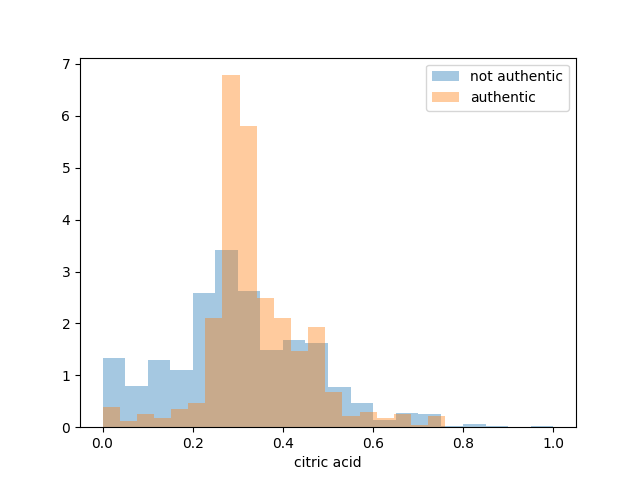
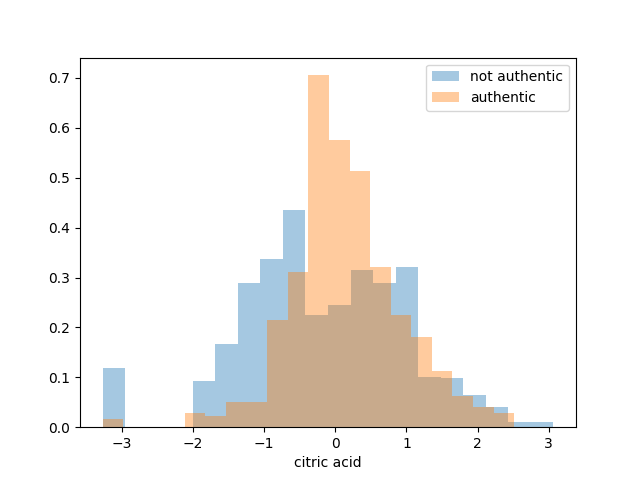
da cambiare gli scores

diff --git a/classifiers.py b/classifiers.py
@@ -1,7 +1,7 @@
 import numpy
 import probability as prob
 
-def MVG_classifier(DTR, LTR, DTE, LTE):
+def MVG_classifier(DTR, LTR, DTE, LTE, classes_prior_probabilties):
     log =True
     
     # 1) Compute the ML estimetes for the classifier parameters (mu, co : for each class) mu=mean, co=covariance matrix
@@ -12,8 +12,6 @@ def MVG_classifier(DTR, LTR, DTE, LTE):
         # 2) Compute the likelihood of each sample for each class and store it in a matrix #Row=classes x #columns=data_sample
         scores = prob.compute_likelihoods (DTE, m, c, 2)
         # 3) Compute class posterior probability= multiply the score matrix with prior probability
-        P_c= 1/2
-        classes_prior_probabilties = numpy.array([P_c, P_c, P_c]) #assuming for each class P(c)=1/3 
         S_joint = prob.compute_joint_distribution(scores, classes_prior_probabilties) 
         # 4) compute class posterior probability
         S_post = prob.compute_class_posterior_probabilities(S_joint) 
@@ -23,8 +21,6 @@ def MVG_classifier(DTR, LTR, DTE, LTE):
         # 2) Compute the loglikelihood of each sample for each class and store it in a matrix #Row=classes x #columns=data_sample
         scores = prob.compute_loglikelihoods (DTE, m, c, 2)
         # 3) Compute class posterior probability= multiply the score matrix with prior probability
-        P_c= 1/2
-        classes_prior_probabilties = numpy.array([P_c, P_c, P_c]) #assuming for each class P(c)=1/3 
         S_joint = prob.compute_joint_log_distribution(scores, classes_prior_probabilties) 
         # 4) compute class posterior probability
         S_log_post = prob.compute_log_class_posterior_probabilities(S_joint) 
@@ -40,7 +36,7 @@ def MVG_classifier(DTR, LTR, DTE, LTE):
 
 
 
-def TiedCovariance_classifier(DTR, LTR, DTE, LTE):
+def TiedCovariance_classifier(DTR, LTR, DTE, LTE, classes_prior_probabilties):
     log =True
      # 1) Compute the ML estimetes for the classifier parameters (mu, co : for each class) mu=mean, co=covariance matrix
     m = prob.means(DTR, LTR)
@@ -63,8 +59,6 @@ def TiedCovariance_classifier(DTR, LTR, DTE, LTE):
         # 2) Compute the likelihood of each sample for each class and store it in a matrix #Row=classes x #columns=data_sample
         scores = prob.compute_likelihoods (DTE, m, c, 2)
         # 3) Compute class posterior probability= multiply the score matrix with prior probability
-        P_c= 1/2
-        classes_prior_probabilties = numpy.array([P_c, P_c, P_c]) #assuming for each class P(c)=1/3 
         S_joint = prob.compute_joint_distribution(scores, classes_prior_probabilties) 
         # 4) compute class posterior probability
         S_post = prob.compute_class_posterior_probabilities(S_joint) 
@@ -74,8 +68,6 @@ def TiedCovariance_classifier(DTR, LTR, DTE, LTE):
         # 2) Compute the loglikelihood of each sample for each class and store it in a matrix #Row=classes x #columns=data_sample
         scores = prob.compute_loglikelihoods (DTE, m, c, 2)
         # 3) Compute class posterior probability= multiply the score matrix with prior probability
-        P_c= 1/2
-        classes_prior_probabilties = numpy.array([P_c, P_c, P_c]) #assuming for each class P(c)=1/3 
         S_joint = prob.compute_joint_log_distribution(scores, classes_prior_probabilties) 
         # 4) compute class posterior probability
         S_log_post = prob.compute_log_class_posterior_probabilities(S_joint) 
@@ -92,7 +84,7 @@ def TiedCovariance_classifier(DTR, LTR, DTE, LTE):
 
 
 
-def NaiveBayes_classifier(DTR, LTR, DTE, LTE):
+def NaiveBayes_classifier(DTR, LTR, DTE, LTE, classes_prior_probabilties):
     log =True
      # 1) Compute the ML estimetes for the classifier parameters (mu, co : for each class) mu=mean, co=covariance matrix
     m = prob.means(DTR, LTR)
@@ -108,8 +100,7 @@ def NaiveBayes_classifier(DTR, LTR, DTE, LTE):
         # 2) Compute the likelihood of each sample for each class and store it in a matrix #Row=classes x #columns=data_sample
         scores = prob.compute_likelihoods (DTE, m, c, 2)
         # 3) Compute class posterior probability= multiply the score matrix with prior probability
-        P_c= 1/2
-        classes_prior_probabilties = numpy.array([P_c, P_c, P_c]) #assuming for each class P(c)=1/3 
+       
         S_joint = prob.compute_joint_distribution(scores, classes_prior_probabilties) 
         # 4) compute class posterior probability
         S_post = prob.compute_class_posterior_probabilities(S_joint) 
@@ -119,8 +110,7 @@ def NaiveBayes_classifier(DTR, LTR, DTE, LTE):
         # 2) Compute the loglikelihood of each sample for each class and store it in a matrix #Row=classes x #columns=data_sample
         scores = prob.compute_loglikelihoods (DTE, m, c, 2)
         # 3) Compute class posterior probability= multiply the score matrix with prior probability
-        P_c= 1/2
-        classes_prior_probabilties = numpy.array([P_c, P_c, P_c]) #assuming for each class P(c)=1/3 
+       
         S_joint = prob.compute_joint_log_distribution(scores, classes_prior_probabilties) 
         # 4) compute class posterior probability
         S_log_post = prob.compute_log_class_posterior_probabilities(S_joint) 

diff --git a/probability.py b/probability.py
@@ -137,3 +137,62 @@ def compute_accuracy_error(predicted_labels, LTE):
     error = (tot_predictions - num_corrected_predictions ) /tot_predictions
 
     return (accuracy, error)
+
+
+
+
+def compute_confusion_matrix(predicted_labels, actual_labels, numClasses):
+    #Build confusion matrix 
+    c_matrix_C =numpy.zeros((numClasses,numClasses))
+    #columns =classes, #rows= predictions
+
+    # classLabels: evaluation labels -> actual class labels
+    # predicted_labelsC ->assigned class Labels    
+    for i in range (len(actual_labels)):
+        columnIndex=actual_labels[i]
+        rowIndex=predicted_labels[i]
+        c_matrix_C[rowIndex][columnIndex]+=1
+    return c_matrix_C
+
+
+
+def compute_optimal_bayes_decision(loglikelihood_ratios, prior, cost_fn, cost_fp):
+    threshold= - numpy.log((prior*cost_fn)/((1-prior)*cost_fp))
+    
+    return(1*(loglikelihood_ratios>threshold))
+
+
+def compute_FNR(conf_matrix):
+    return conf_matrix[0][1] /(conf_matrix[0][1] + conf_matrix[1][1] )
+
+def compute_FPR(conf_matrix):
+    return  conf_matrix[1][0] /(conf_matrix[0][0] + conf_matrix[1][0] )
+
+def compute_bayes_risk(conf_matrix, prior, cost_fn, cost_fp):
+    FNR= compute_FNR(conf_matrix)
+    FPR= compute_FPR(conf_matrix)
+
+    risk= prior*cost_fn*FNR+(1-prior)*cost_fp*FPR
+    return risk
+
+def compute_normalized_bayes_risk(bayes_risk ,prior, cost_fn, cost_fp):
+    return bayes_risk/(min(prior*cost_fn, (1-prior)*cost_fp))
+
+
+
+
+
+def compute_normalised_bayes_risk_wrapper(data, labels, prior, cost_fn, cost_fp):
+
+    #return 1 if a sample is greater than the trashold, 0 otherwise
+    predicted_labels = compute_optimal_bayes_decision(data, prior, cost_fn, cost_fp)
+
+    #Build the corresponding confusion matrix 
+    c_matrix_IP =compute_confusion_matrix(predicted_labels, labels, 2 )
+
+    bayes_risk= compute_bayes_risk(c_matrix_IP,prior, cost_fn, cost_fp)
+    
+    normalized_bayes_risk=compute_normalized_bayes_risk(bayes_risk ,prior, cost_fn, cost_fp)
+    
+
+    return (predicted_labels,c_matrix_IP, bayes_risk, normalized_bayes_risk)

diff --git a/main.py b/main.py
@@ -33,18 +33,21 @@ def load(fname):
 
 
 
+
+
+
 def gaussianization(D):
     N = D.shape[1]
     r = numpy.zeros(D.shape)
     for k in range(D.shape[0]):
         featureVector = D[k,:]
-        for i in range(N):
-            for j in range(N):
-                if(featureVector[i]<featureVector[j]):
-                    r[k][i]+=1
+        ranks = scipy.stats.rankdata(featureVector, method='min') -1
+        r[k,:] = ranks
+
     r = (r + 1)/(N+2)
     gaussianizedFeatures = scipy.stats.norm.ppf(r)
     return gaussianizedFeatures
+
 
 
 
@@ -111,18 +114,25 @@ if __name__ == '__main__':
     stats.compute_stats(DTR, LTR, show_figures = True)
 
     #gaussianize the features
-    #gaussianizedFeatures = gaussianization(DTR)
+    gaussianizedFeatures = gaussianization(DTR)
+    
     #stats.plot_hist(gaussianizedFeatures, LTR)
+
 
     #enstablish if data are balanced
     n_high_qty = numpy.count_nonzero(LTR == 1)
     n_low_qty = numpy.count_nonzero(LTR == 0)
     #-----> number of low qty >> number of high qty
 
+    #PT = Prior probability for True class -> high quality
+    #PF = Prior probability for False class -> low quality
+    PT = 0.5
+    PF = 0.5
+    classes_prior_probabilties = numpy.array([PT, PF])
 
-    _,_,predicted_labelsMVG= classifiers.MVG_classifier(DTR, LTR, DTE, LTE)
-    _,_,predicted_labelsTied= classifiers.TiedCovariance_classifier(DTR, LTR, DTE, LTE)
-    _,_,predicted_labelsNaive= classifiers.NaiveBayes_classifier(DTR, LTR, DTE, LTE)
+    _,_,predicted_labelsMVG= classifiers.MVG_classifier(DTR, LTR, DTE, LTE, classes_prior_probabilties)
+    _,_,predicted_labelsTied= classifiers.TiedCovariance_classifier(DTR, LTR, DTE, LTE, classes_prior_probabilties)
+    _,_,predicted_labelsNaive= classifiers.NaiveBayes_classifier(DTR, LTR, DTE, LTE, classes_prior_probabilties)
 
     accMVG,_ = prob.compute_accuracy_error(predicted_labelsMVG, LTE)
     accTied,_ = prob.compute_accuracy_error(predicted_labelsTied, LTE)
